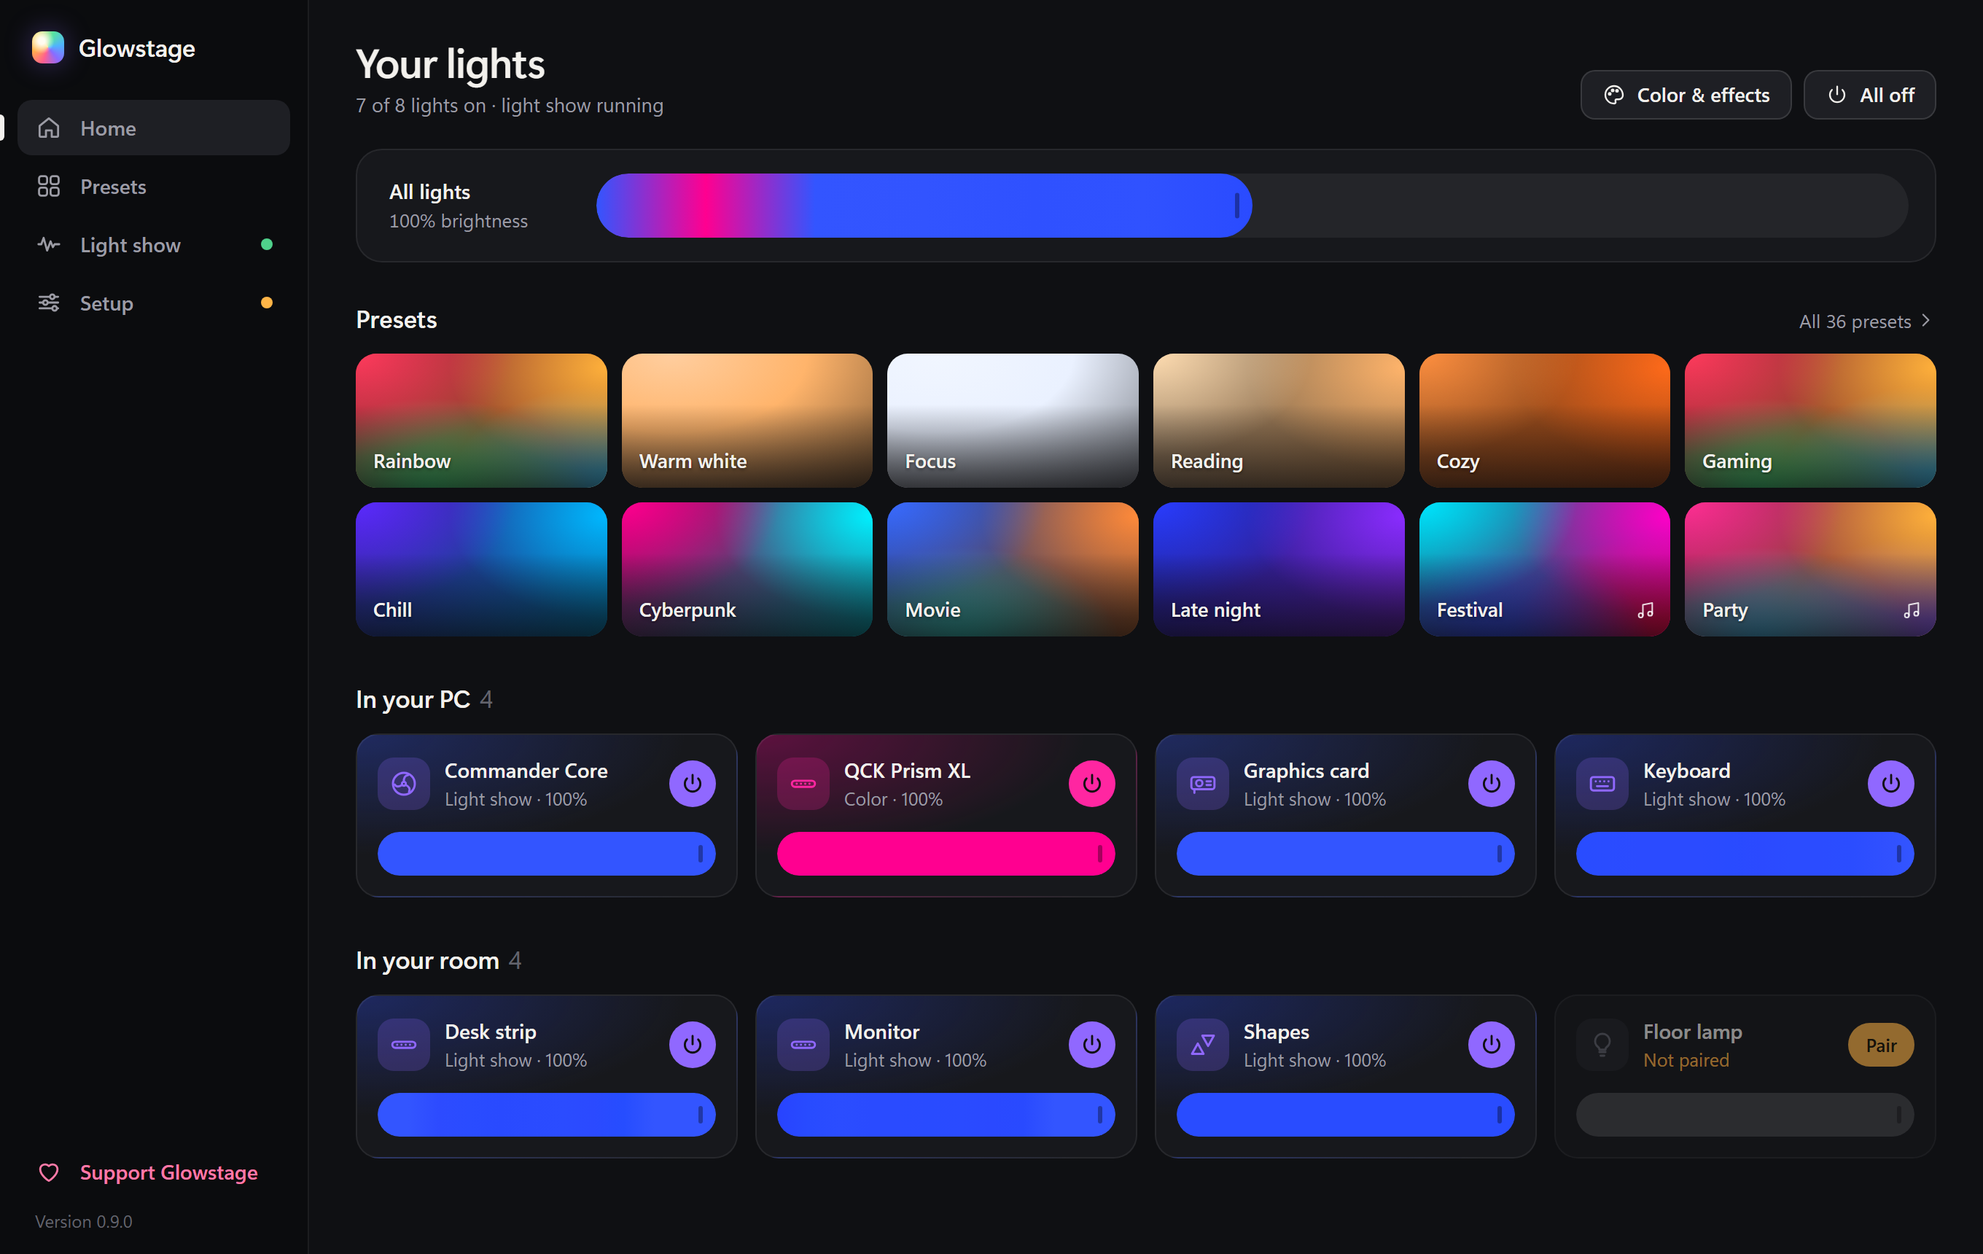
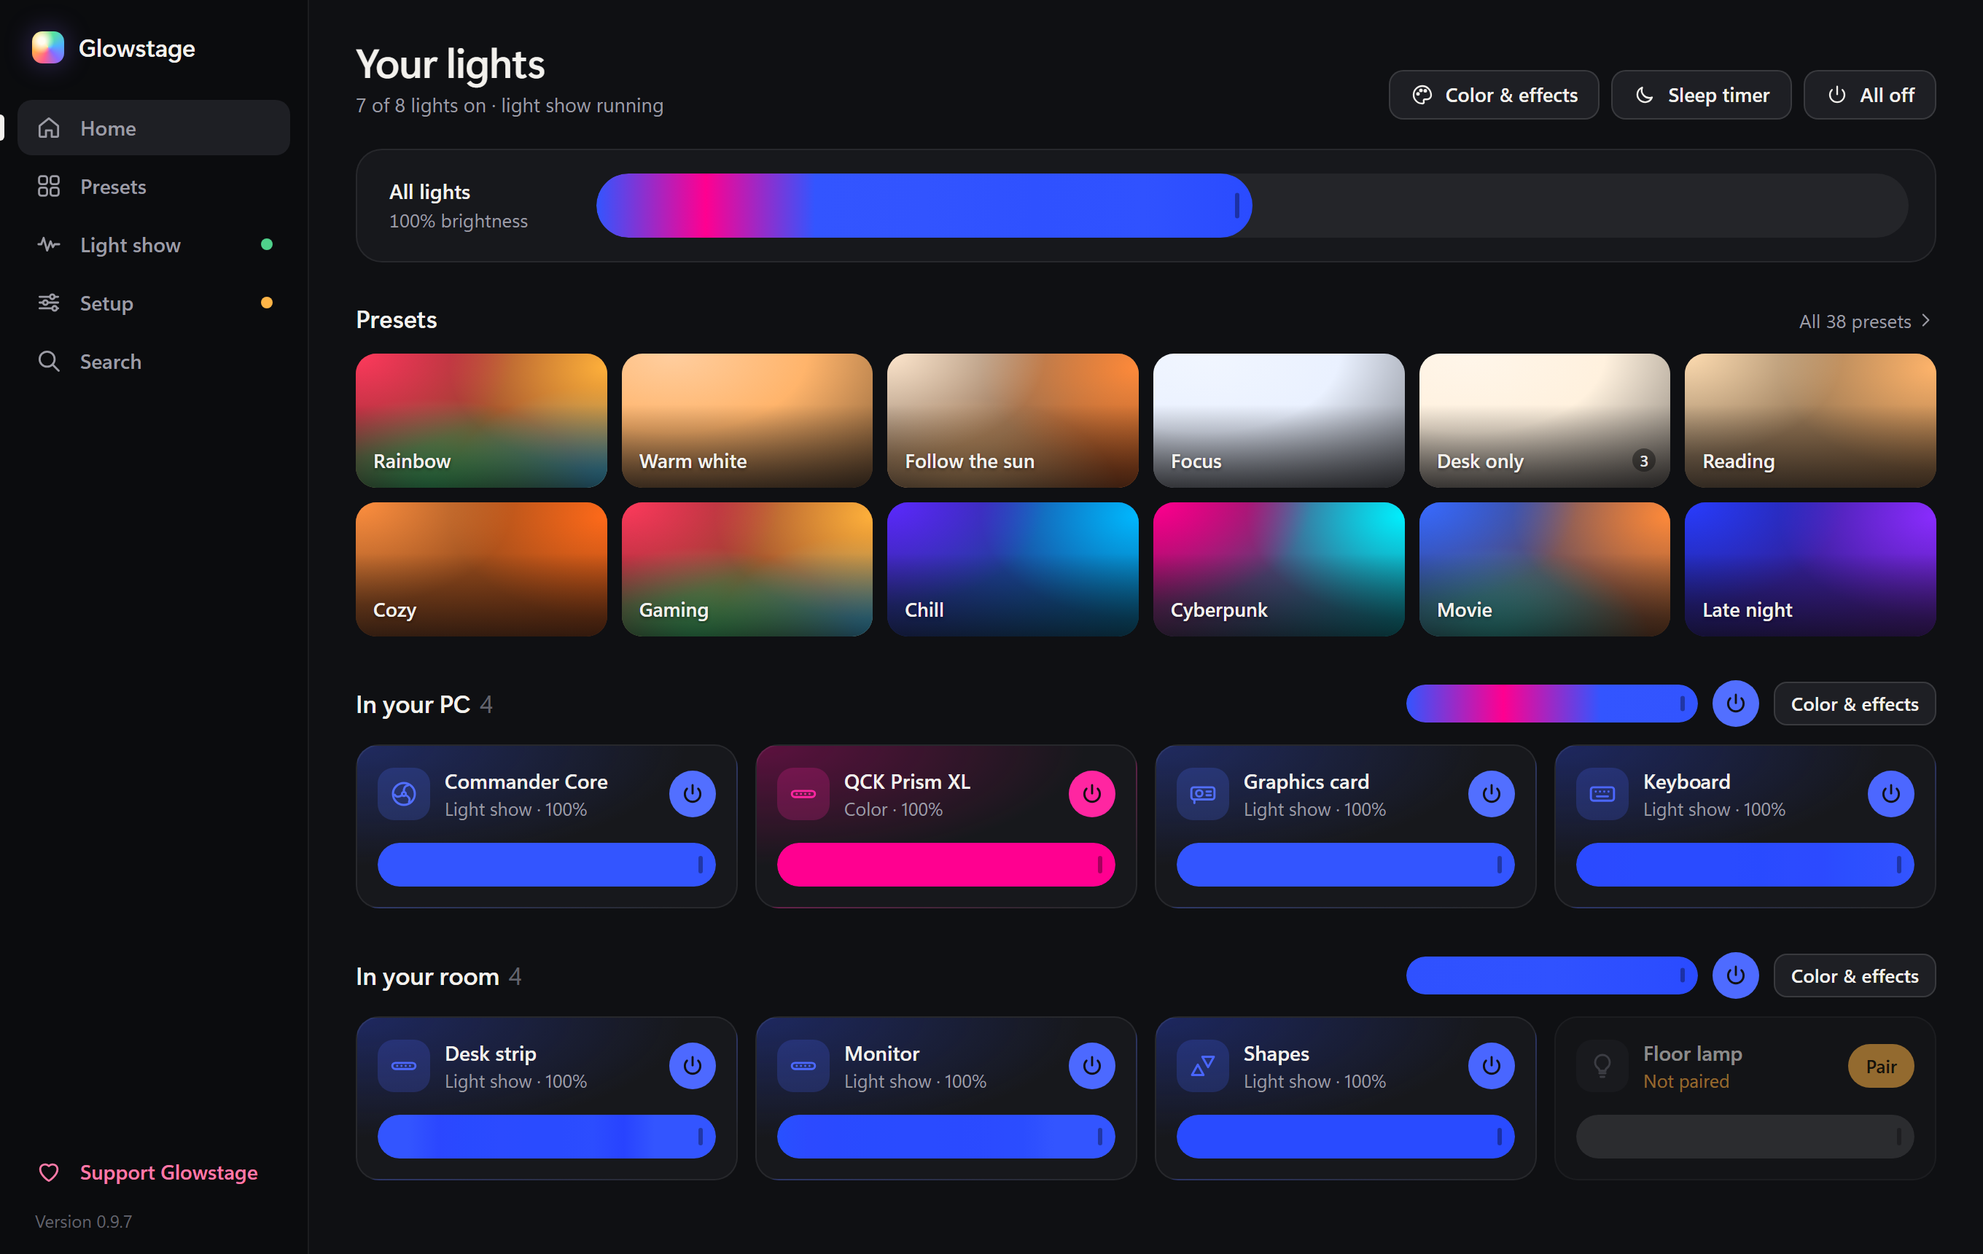
README and release notes for 0.9.7, new screenshots

diff --git a/docs/RELEASE-NOTES.md b/docs/RELEASE-NOTES.md
@@ -1,36 +1,35 @@
-Glowstage 0.9.7: a phone remote, games flash along, your keyboard ripples as you type, every app can have its own look, and a sleep timer.
+Glowstage 0.9.7: a phone remote, quick search, wake up with a sunrise, games flash along, your keyboard ripples as you type, every app and every call can have its own look, and daily backups.
 
 **Install:** download `Glowstage-0.9.7-windows.zip`, unzip it anywhere and run `Glowstage.exe`. It adds itself to the Start menu. Windows may say the publisher is unknown: choose *More info → Run anyway*. **Updating?** From 0.9.4, click *Update now* on Home. From an older version, quit Glowstage from its tray icon and unzip over the old folder: your lights and settings stay.
 
 **New**
-- Phone remote (Setup → Phone remote): scan the code with your phone and control your lights on the same Wi-Fi: all on or off, brightness, presets, the light show and the sleep timer, on a page made for thumbs. It's off until you switch it on, and it only answers to the code's link, which carries a secret key (*New link* shuts out the old one). Windows asks once whether Glowstage may use the network: allow it for private networks.
+- Phone remote (Setup → Phone remote): scan the code with your phone and control your lights on the same Wi-Fi: all on or off, your PC's lights and your room's lights as two groups, every light on its own with its own switch and brightness, presets, the light show and the sleep timer, on a page made for thumbs. It's off until you switch it on, and it only answers to the code's link, which carries a secret key (*New link* shuts out the old one). Windows asks once whether Glowstage may use the network: allow it for private networks.
+- Quick search: press Ctrl+K anywhere (or *Search* in the sidebar), type a few letters and press Enter to switch on a preset, open a light, put every light on an effect, jump to any part of Setup, or switch everything on or off, start the sleep timer or the light show, or undo.
+- Wake up with a sunrise (Setup → Schedule → *Wake up slowly*): over 15, 30 or 45 minutes before the time you set, your room's lights come up from a dim deep red through amber to bright warm white, and stay on. Change a light meanwhile and it's yours again; *Stop* on Home puts the lights back as they were.
 - Screen + sound, a new look for any game: your lights follow the screen, and every shot or explosion flashes them on the side it came from (a shot on your left lights the left of your setup; lights behind you flash along). It listens to the crack of a sound, so footsteps, engines, hi-hats and kick drums don't flash, and it never flashes more than three times a second. Pick it for full-screen games (Setup → Automatic) and it's there whenever you play.
 - Typing ripples, a new look: every key you press lights up and sends a ripple across your keyboard (on keyboards whose LED layout Glowstage knows, like the MCHOSE GX87), and your other lights glow where the key sits, left to right. Speed sets how quickly it fades, the two colors the flash and the background. While it runs, Glowstage asks Windows 60 times a second which keys are down: it never sits between your keyboard and your programs, so typing and games feel the same. It keeps a key for three seconds as a spot on the board, and saves and sends nothing.
 - A look per app (Setup → Automatic → Apps): pick an app that's open, choose its look (a preset, Screen sync or the light show), and your lights change while it's open and go back when you close it. *Focus* while Photoshop is open, *Gaming* while OBS is. It counts once the app has been open for a few seconds, so switching around doesn't flick the lights; the first app in the list goes first, before full-screen games and videos. Checking costs a fifth of a millisecond a second.
+- On a call (Setup → Automatic): while an app uses your camera or microphone, your lights take the preset you pick, and go back when the call ends. It waits a few seconds, so a quick voice message doesn't flick them, and a game in full screen goes first, so voice chat while you play keeps your game's lighting. Glowstage only sees whether they're in use, never what they pick up.
+- Backups (Setup → Backups): each day you use Glowstage, it keeps a copy of your presets, lights and settings, the last 14 days. Go back to one in two clicks, or save everything to a file and load it on another PC. Whatever you had before going back is kept as a copy too. And if the settings file is ever damaged, Glowstage starts from its newest copy and tells you, instead of starting with nothing.
 - Sleep timer (Home, or the tray): the lights that are on fade out slowly over 15 minutes to an hour and a half, like a sunset, and switch off at the end. Next time they come on as they were; a light you change meanwhile is left alone, and cancelling puts the brightness back.
 - Undo: picked a preset over the colors you'd just made, or switched everything off? *Undo* in the message that pops up puts your lights back as they were (also in the tray, and Ctrl+Alt+Shift+Z). Undo again to redo.
+- Presets have their own menu (⋯ on each card): rename one (schedules, apps and automatic looks that use it follow the new name), update it with your lights as they are now, make a copy to change without losing the original, move it earlier, later or to the top (the tray, Home and hotkeys 1-9 follow that order), or delete it. Or drag a card onto another to give it that one's place. Saving over a preset keeps its place.
+- Presets for some of your lights: when you save one, tick the lights it sets (all by default). Lights you leave out keep their look when you switch it on, so a room preset leaves your PC alone. Its menu says which lights it sets, and its card shows how many.
+- Each group on Home ("In your PC", "In your room") has its own brightness slider, on/off button and *Color & effects*: dim the room and keep the PC bright, or give only the room a color. Switching a group off offers Undo.
+- Whites by color temperature (Color & effects → Color): the *White* slider goes from 2200 K candlelight to 6500 K daylight in steps of 100 K, with its name ("2700 K · warm"), and works with the arrow keys. A *Recent* row keeps the last 8 colors you set by hand, across restarts. *Pick from screen* takes a color from anywhere on your screen: a photo, a game, your wallpaper.
+- Schedules that follow the sun (Setup → Schedule): *At sunset*, *At sunrise*, on time or up to two hours before or after, for where you live. "30 min before sunset: Cozy" moves along with the seasons; each choice shows the time it means today.
+- The tray icon shows your lights: their color when they're on, a rainbow for effects and the light show, grey when everything is off; its tooltip says how many are on.
+- The tray menu has *Brightness* (100% to 10% for every light that is on) and *Lights* (the PC's lights or the room's lights on or off apart), each with Undo.
+- Keys in the window: 1 to 9 switch on your first nine presets, L all lights on or off, S the light show, + and − brighter or darker, N the sleep timer, Z undo. Press ? (or Setup → App → Keyboard shortcuts) for the list, with the hotkeys that work from any program.
 - More hotkeys (Setup → App → Hotkeys): Ctrl+Alt+Shift+Up and Down for brighter and darker (hold to keep going), +N for the sleep timer, +Z to undo.
 - Flow (Color & effects → Effects): Rainbow, Spectrum, Breathing, Color wave, Comet and Aurora can run from light to light along the stage instead of each light on its own: one rainbow across your setup, a comet from the keyboard to the fans. Light show → Arrange sets where each light sits.
 - The stage knows your desk: a mouse mat, mouse or headset stand (as OpenRGB names them) now stands in front of the monitor with the keyboard, not with the lights inside your PC on the right, so the light show and Flow run across it where it really is. Places you set yourself stay.
-- Presets have their own menu (⋯ on each card): rename one (schedules, apps and automatic looks that use it follow the new name), update it with your lights as they are now, make a copy to change without losing the original, move it earlier, later or to the top (the tray, Home and hotkeys 1-9 follow that order), or delete it. Or drag a card onto another to give it that one's place. Saving over a preset keeps its place.
-- Quick search: press Ctrl+K anywhere (or *Search* in the sidebar), type a few letters and press Enter to switch on a preset, open a light, put every light on an effect, jump to any part of Setup, or switch everything on or off, start the sleep timer or the light show, or undo.
-- Each group on Home ("In your PC", "In your room") has its own brightness slider, on/off button and *Color & effects*: dim the room and keep the PC bright, or give only the room a color. Switching a group off offers Undo.
-- Whites by color temperature (Color & effects → Color): the *White* slider goes from 2200 K candlelight to 6500 K daylight in steps of 100 K, with its name ("2700 K · warm"), and works with the arrow keys. A *Recent* row keeps the last 8 colors you set by hand, across restarts. *Pick from screen* takes a color from anywhere on your screen: a photo, a game, your wallpaper.
-- The tray menu has *Brightness* (100% to 10% for every light that is on) and *Lights* (the PC's lights or the room's lights on or off apart), each with Undo.
-- Keys in the window: 1 to 9 switch on your first nine presets, L all lights on or off, S the light show, + and − brighter or darker, N the sleep timer, Z undo. Press ? (or Setup → App → Keyboard shortcuts) for the list, with the hotkeys that work from any program.
-- Schedules that follow the sun (Setup → Schedule): *At sunset*, *At sunrise*, on time or up to two hours before or after, for where you live. "30 min before sunset: Cozy" moves along with the seasons; each choice shows the time it means today.
-- On a call (Setup → Automatic): while an app uses your camera or microphone, your lights take the preset you pick, and go back when the call ends. It waits a few seconds, so a quick voice message doesn't flick them, and a game in full screen goes first, so voice chat while you play keeps your game's lighting. Glowstage only sees whether they're in use, never what they pick up.
-- Presets for some of your lights: when you save one, tick the lights it sets (all by default). Lights you leave out keep their look when you switch it on, so a room preset leaves your PC alone. Its menu says which lights it sets, and its card shows how many.
-- The tray icon shows your lights: their color when they're on, a rainbow for effects and the light show, grey when everything is off; its tooltip says how many are on.
-- Wake up with a sunrise (Setup → Schedule → *Wake up slowly*): over 15, 30 or 45 minutes before the time you set, your room's lights come up from a dim deep red through amber to bright warm white, and stay on. Change a light meanwhile and it's yours again; *Stop* on Home puts the lights back as they were.
-- When lights stop answering, Home says which ones and why, with a tip for that kind of light (Wi-Fi, pairing, OpenRGB) and *Try again*. It waits a minute first, so a short reconnect doesn't show it.
-- The phone remote shows your PC's lights and your room's lights as two groups, and every light on its own, each with an on/off switch and brightness.
 - Find a light (Setup → Lights): *Find* makes a light flash white for a few seconds, so you can see which name belongs to which light. Then it's back exactly as it was; nothing is saved.
-- Backups (Setup → Backups): each day you use Glowstage, it keeps a copy of your presets, lights and settings, the last 14 days. Go back to one in two clicks, or save everything to a file and load it on another PC. Whatever you had before going back is kept as a copy too. And if the settings file is ever damaged, Glowstage starts from its newest copy and tells you, instead of starting with nothing.
+- When lights stop answering, Home says which ones and why, with a tip for that kind of light (Wi-Fi, pairing, OpenRGB) and *Try again*. It waits a minute first, so a short reconnect doesn't show it.
 - Report a problem (Setup → App): shows you a short summary first (your version, Windows, your lights and whether they answer, the last warnings from the log; never a key or a password), then opens a GitHub issue with it filled in, or copies it.
 - After an update, Home says what's new in a short card, with a *Show me* for each new thing that takes you right to it.
-- Fixed: after an update the window could stay empty. It was loaded through a small web server on a fixed port, and WebView2 kept an old page in its cache next to the new scripts. It now opens straight from its files.
 - Easier without a mouse and with a screen reader: every control has a name (checked in the window's own accessibility tree), a window keeps the keyboard inside it and gives the focus back when it closes, and with Windows' *Show animations* off the effect previews hold still. In a narrower window, where the sidebar shows only icons, each keeps its name for a screen reader and shows it when you point at it.
+- Fixed: after an update the window could stay empty. It was loaded through a small web server on a fixed port, and WebView2 kept an old page in its cache next to the new scripts. It now opens straight from its files.
 - Fixed: with a Steam library on a hard disk that had spun down, the window could hang for seconds once a minute while Glowstage looked for CS2. It now looks in the background.
 - A window call that takes more than 3 seconds writes where it waits into the log, so a slow window can be traced.
 - The log now names an error a light reports without a message (like OpenRGB dropping its connection).

diff --git a/README.md b/README.md
@@ -36,11 +36,15 @@
 - **Your room plays along with Counter-Strike 2.** Your team's color, your health as a bar across the lights, white when you're flashed, the bomb blinking ever faster, a pop for every kill. It uses Valve's own game state integration, so nothing touches the game and it's safe for VAC (Setup → Games).
 - **Your keyboard ripples as you type.** With *Typing ripples* every key you press lights up and sends a ripple across the keyboard, and your other lights glow where the key sits. It only looks at which key is down while the look runs, and keeps and sends nothing.
 - **Light that follows the sun.** *Follow the sun* lights your room like the day outside: cool and bright at noon, golden as the sun sets, warm in the evening and a low amber glow at night. It knows when the sun rises and sets where you live from Windows' region setting, without location access or the internet.
-- **Presets for every moment.** Focus, Reading, Cozy, Gaming, Movie and more, each lighting your PC and your room its own way. Save your own with one click, run them from the tray or a hotkey, on a schedule (*Late night* at 23:00, everything off at 1:00), or automatically: *Gaming* when a game goes full screen, *Movie* for a full-screen video, *Focus* while Photoshop is open, and back to your own look afterwards. At bedtime the sleep timer fades your lights out like a sunset.
+- **Presets for every moment.** Focus, Reading, Cozy, Gaming, Movie and more, each lighting your PC and your room its own way. Save your own with one click, for every light or only some (a room preset leaves your PC alone). Run them from the tray or a hotkey, on a schedule (*Cozy* 30 minutes before sunset, *Late night* at 23:00, everything off at 1:00), or automatically: *Gaming* when a game goes full screen, *Movie* for a full-screen video, *Focus* while Photoshop is open or while you're on a call, and back to your own look afterwards.
+- **A sunset at night, a sunrise in the morning.** At bedtime the sleep timer fades your lights out slowly. In the morning *Wake up slowly* brings your room's lights up before your alarm, from a dim deep red through amber to bright warm white.
+- **Your PC and your room, apart or together.** Each group has its own brightness, switch and colors, so you can dim the room and keep the PC bright. Whites go from 2200 K candlelight to 6500 K daylight, and *Pick from screen* takes a color from anything on your screen.
+- **Everything a few keys away.** Press Ctrl+K and type a few letters to switch on a preset, open a light or jump to a setting. Keys 1 to 9 pick your presets, hotkeys work from any program, and *Undo* puts your lights back when you change your mind. The tray icon glows in your lights' color.
 - **Lights off when you step away.** Lock the PC, let its screen go off or put it to sleep, and the PC's lights (or all of them) switch off; they come back as they were when you return (Setup → Automatic).
 - **In sync with what you hear.** Bluetooth headphones play the sound later than your PC sends it; Glowstage notices and waits for them. Slow lights (Hue, Govee, Home Assistant) get calmer looks that still catch every hit.
-- **From your phone.** Scan a code in Setup and your phone controls the lights on the same Wi-Fi: on and off, brightness, presets, the light show and the sleep timer. Off until you switch it on; only the phone with the code's secret link gets in.
-- **Works out of the box.** A short welcome tour finds your lights, fetches OpenRGB for the RGB inside your PC if you want it, and gets you to your first light show in a minute. It lives quietly in the tray.
+- **From your phone.** Scan a code in Setup and your phone controls the lights on the same Wi-Fi: every light or a whole group on and off, brightness, presets, the light show and the sleep timer. Off until you switch it on; only the phone with the code's secret link gets in.
+- **Your setup is safe.** Every day you use it, Glowstage keeps a copy of your presets, lights and settings for 14 days. Go back to one in two clicks, or save everything to a file and take it to another PC.
+- **Works out of the box.** A short welcome tour finds your lights, fetches OpenRGB for the RGB inside your PC if you want it, and gets you to your first light show in a minute. It lives quietly in the tray, and when a light stops answering, Home tells you which one and what to try.
 
 <p align="center">
   <img src="docs/images/home.png" alt="The Home page: presets and every light with its own switch and brightness" width="49%">
@@ -116,6 +120,12 @@ It writes down where it was in `%APPDATA%\Glowstage\hang.log` (when it stops res
 <summary><b>Is the Counter-Strike 2 lighting safe for VAC?</b></summary>
 
 Yes. It uses Valve's own game state integration, the feature RGB makers and stream overlays use: CS2 itself sends what happens in the match to Glowstage on your PC. Nothing reads the game's memory or changes the game. Connecting puts one small text file (`gamestate_integration_glowstage.cfg`) in CS2's cfg folder; Disconnect removes it.
+</details>
+
+<details>
+<summary><b>Does Glowstage use my camera or microphone?</b></summary>
+
+No. The light show listens to the sound your PC plays, not to a microphone. *On a call* (off until you pick a look for it) only reads whether Windows says an app is using your camera or microphone, the same thing the privacy icon in your taskbar shows. It never sees or hears what they pick up.
 </details>
 
 <details>
